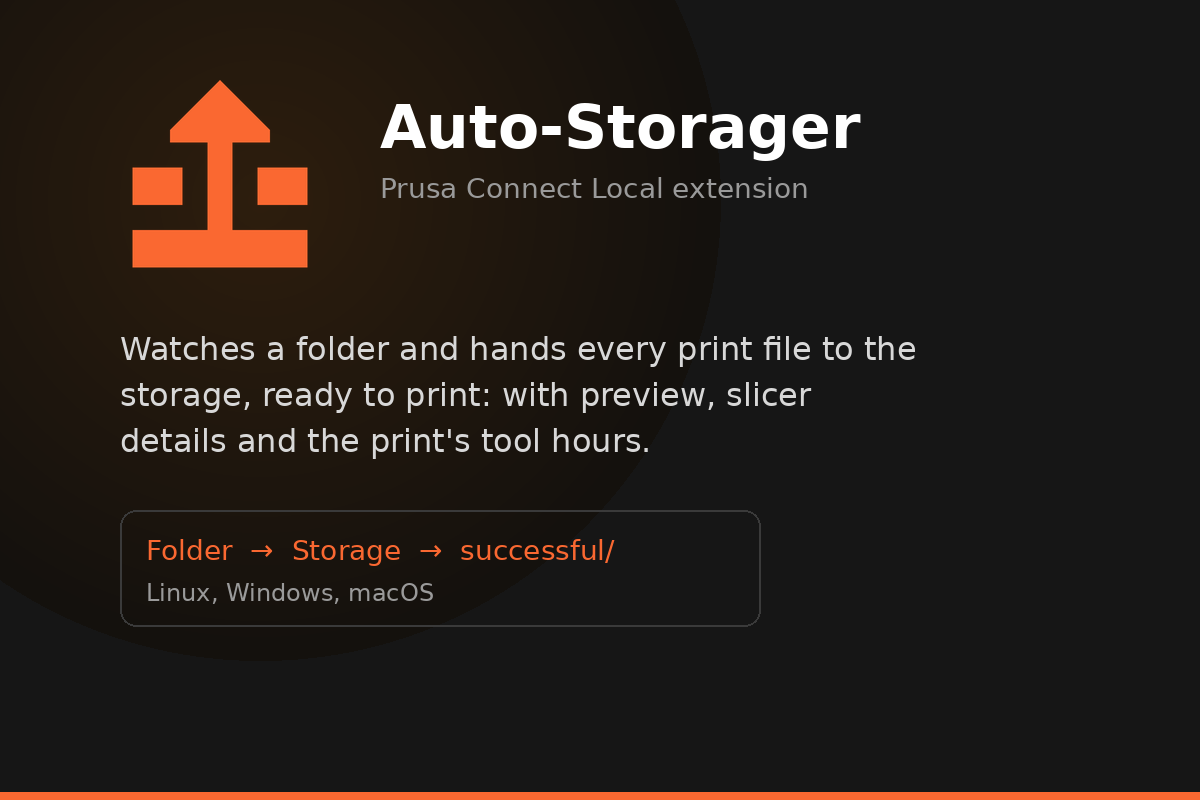
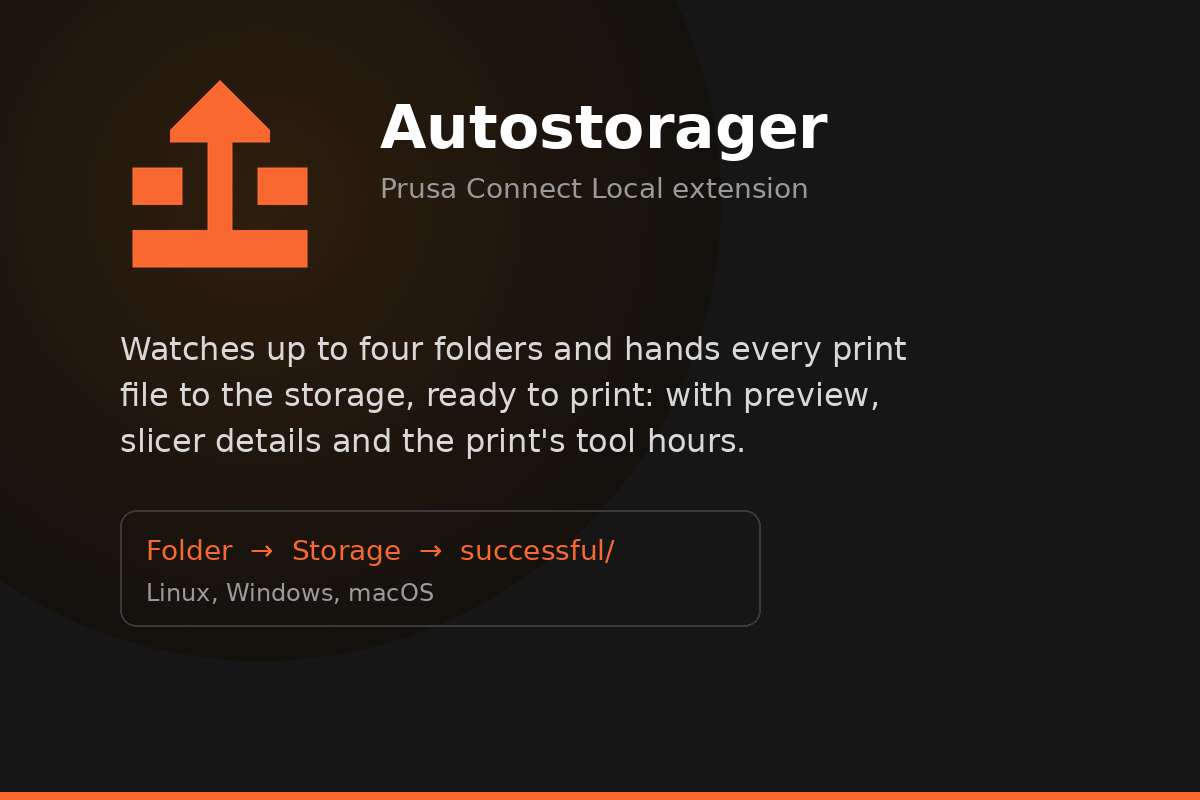
One spelling: Autostorager, and the manual is rebuilt with it

Changed region(s): [[0.0925, 0.4062, 0.7708, 0.5625], [0.4317, 0.125, 0.7092, 0.2188]]

diff --git a/README.md b/README.md
@@ -1,4 +1,4 @@
-# <img src="artwork/icon.svg" width="40" align="center" alt=""> Auto-Storager
+# <img src="artwork/icon.svg" width="40" align="center" alt=""> Autostorager
 
 A Prusa Connect Local extension that watches up to four folders and hands every
 print file it finds to the server's storage. The file arrives there like a
@@ -77,7 +77,7 @@ quarantine flag once with `xattr -d com.apple.quarantine <file>`.
 
 ## Configuration
 
-Everything is set on the extension's own page: **Auto-Storager** in the sidebar.
+Everything is set on the extension's own page: **Autostorager** in the sidebar.
 
 ### Linux, server in a container
 
@@ -163,7 +163,7 @@ returned.
 
 **3. Enter that folder on the module's page.**
 
-![The Auto-Storager page with /app/config/pc-in in the folder field](docs/howto/3-enter-the-folder.webp)
+![The Autostorager page with /app/config/pc-in in the folder field](docs/howto/3-enter-the-folder.webp)
 
 **4. The file appears in Storage.**
 
@@ -205,7 +205,7 @@ Linux     //192.168.178.3/autostorager /mnt/y cifs username=your-user,uid=1000 0
 macOS     Finder, Gehe zu, smb://192.168.178.3/autostorager
 ```
 
-3. **In Auto-Storager**, enter the server path of that folder, `/srv/autostorager`.
+3. **In Autostorager**, enter the server path of that folder, `/srv/autostorager`.
    If the server runs in a container, enter the path the container sees, not the
    host path. That is the one thing that catches people out: a container only
    sees what is mounted into it.
